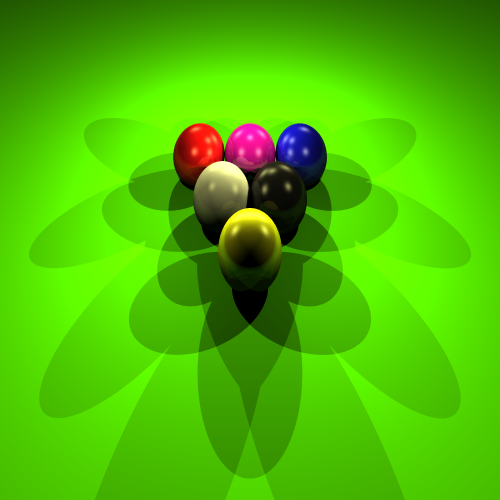
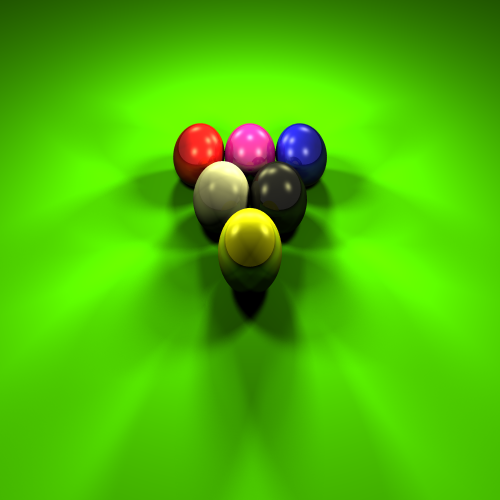
soft shadows

diff --git a/src/Objects/Light.java b/src/Objects/Light.java
@@ -104,11 +104,12 @@ public class Light {
 		int N = scene.getShadowRaysNumber();
 		Vector v = new Vector(2,6,7);
 		
+		//Find vector perpendicular to the ray
 		Vector vertical = v.crossProduct(rayToLight.getVector());
 		
 		float distance = position.FindDistanceFromPoint(point);
 		
-		Screen screen = RayTracer.calculateScreen(this.position, point, this.lightRadius, distance, vertical, scene.getShadowRaysNumber(), scene.getShadowRaysNumber());
+		Screen screen = RayTracer.calculateScreen(point, this.position, this.lightRadius, distance, vertical, scene.getShadowRaysNumber(), scene.getShadowRaysNumber());
 		
 		ArrayList<Ray> rays = new ArrayList<Ray>();
 		int badRaysCounter = 0;
@@ -125,14 +126,19 @@ public class Light {
 				Ray down = new Ray(screenRight, screen.getVertical());
 				Point screenPoint = down.getPointOnRayByDistance(screen.getPixelSize() * j + yNoise);
 				
-				Vector direction = new Vector(position, point);
-				Ray ray = new Ray(position, direction);
+				Vector direction = new Vector(point, screenPoint);
+				Ray ray = new Ray(point, direction);
 								
 				for (Surface surface1 : scene.getSurfaces())
 				{
 					Point p = surface1.findClosestIntesectionWithRay(ray);
-					
-					if ( p != null && p.FindDistanceFromPoint(position) <= point.FindDistanceFromPoint(position) )
+					float intersectionDistace = 0, pointDistance = 0;
+					if(p != null)
+					{
+						intersectionDistace = p.FindDistanceFromPoint(screenPoint);
+						pointDistance = point.FindDistanceFromPoint(screenPoint);
+					}
+					if ( p != null && intersectionDistace <= pointDistance)
 					{
 						badRaysCounter++;
 						break;
@@ -142,13 +148,30 @@ public class Light {
 		}
 		float allRaysCounter = (float)(N*N);
 		float goodRaysCounter = (float) (allRaysCounter - badRaysCounter);
+		
+		if( goodRaysCounter / allRaysCounter < 1)
+		{
+			int sanityCheck = 0;
+			sanityCheck++;
+		}
 		return goodRaysCounter / allRaysCounter;
 	}
 	
-	public float computeHardShadows(Ray rayToLight)
+	public float computeHardShadows(Scene scene, Ray rayToLight, Point point)
 	{
+		int returnValue = 1;
 		
-		return 0;
+		for (Surface surface : scene.getSurfaces())
+		{
+			
+			Point p = surface.findClosestIntesectionWithRay(rayToLight);
+			if ( p != null && p.FindDistanceFromPoint(position) <= point.FindDistanceFromPoint(position))
+			{
+				returnValue = 0;
+			}
+		}
+		
+		return returnValue;
 	}
 	
 	public float getR() {

diff --git a/src/Objects/Surface.java b/src/Objects/Surface.java
@@ -51,24 +51,26 @@ public abstract class Surface {
 			Vector v = new Vector(light.getPosition().getX() - point.getX(), light.getPosition().getY() - point.getY(), light.getPosition().getZ() - point.getZ());
 			
 			Ray rayToLight = new Ray(point, v);
-			
-			// check if there is interfering object between the surface and the light
-			boolean isInterfered = false;
-			for (Surface surface : scene.getSurfaces())
-			{
-				if (surface.findClosestIntesectionWithRay(rayToLight) != null)
-				{
-					isInterfered = true;
-				}
-			}
-			
-			if (isInterfered == false)
-			{
-				r += Math.abs(light.getDiffuseColorR(point, this, rayToLight)) +  Math.abs(light.getSpecularColorR(point, this, rayToLight, ray));
-				g += Math.abs(light.getDiffuseColorG(point, this, rayToLight)) +  Math.abs(light.getSpecularColorG(point, this, rayToLight, ray));
-				b += Math.abs(light.getDiffuseColorB(point, this, rayToLight)) +  Math.abs(light.getSpecularColorB(point, this, rayToLight, ray));
 				
+			float Ir = Math.abs(light.getDiffuseColorR(point, this, rayToLight)) +  Math.abs(light.getSpecularColorR(point, this, rayToLight, ray));
+			float Ig = Math.abs(light.getDiffuseColorG(point, this, rayToLight)) +  Math.abs(light.getSpecularColorG(point, this, rayToLight, ray));
+			float Ib = Math.abs(light.getDiffuseColorB(point, this, rayToLight)) +  Math.abs(light.getSpecularColorB(point, this, rayToLight, ray));
+			float softShadows;
+			if(scene.getShadowRaysNumber() == 1)
+			{
+				softShadows = light.computeHardShadows(scene, rayToLight, point);
 			}
+			else
+			{
+				softShadows = light.computeSoftShadowsCoef(scene, point, this, rayToLight);
+			}
+			
+			
+			r += (Ir*softShadows);
+			g += (Ig*softShadows);
+			b += (Ib*softShadows);
+				
+			
 
 		}
 		

diff --git a/src/Objects/Point.java b/src/Objects/Point.java
@@ -47,7 +47,7 @@ public class Point {
 	
 	public float FindDistanceFromPoint(Point p)
 	{
-		return (float)Math.sqrt((this.x - p.x)*(this.x - p.x) + (this.y - p.y)*(this.y - p.y) + (this.z-p.z)*(this.z - p.z));
+		return (float)Math.sqrt((this.x - p.x)*(this.x - p.x) + (this.y - p.y)*(this.y - p.y) + (this.z - p.z)*(this.z - p.z));
 		
 	}
 	
